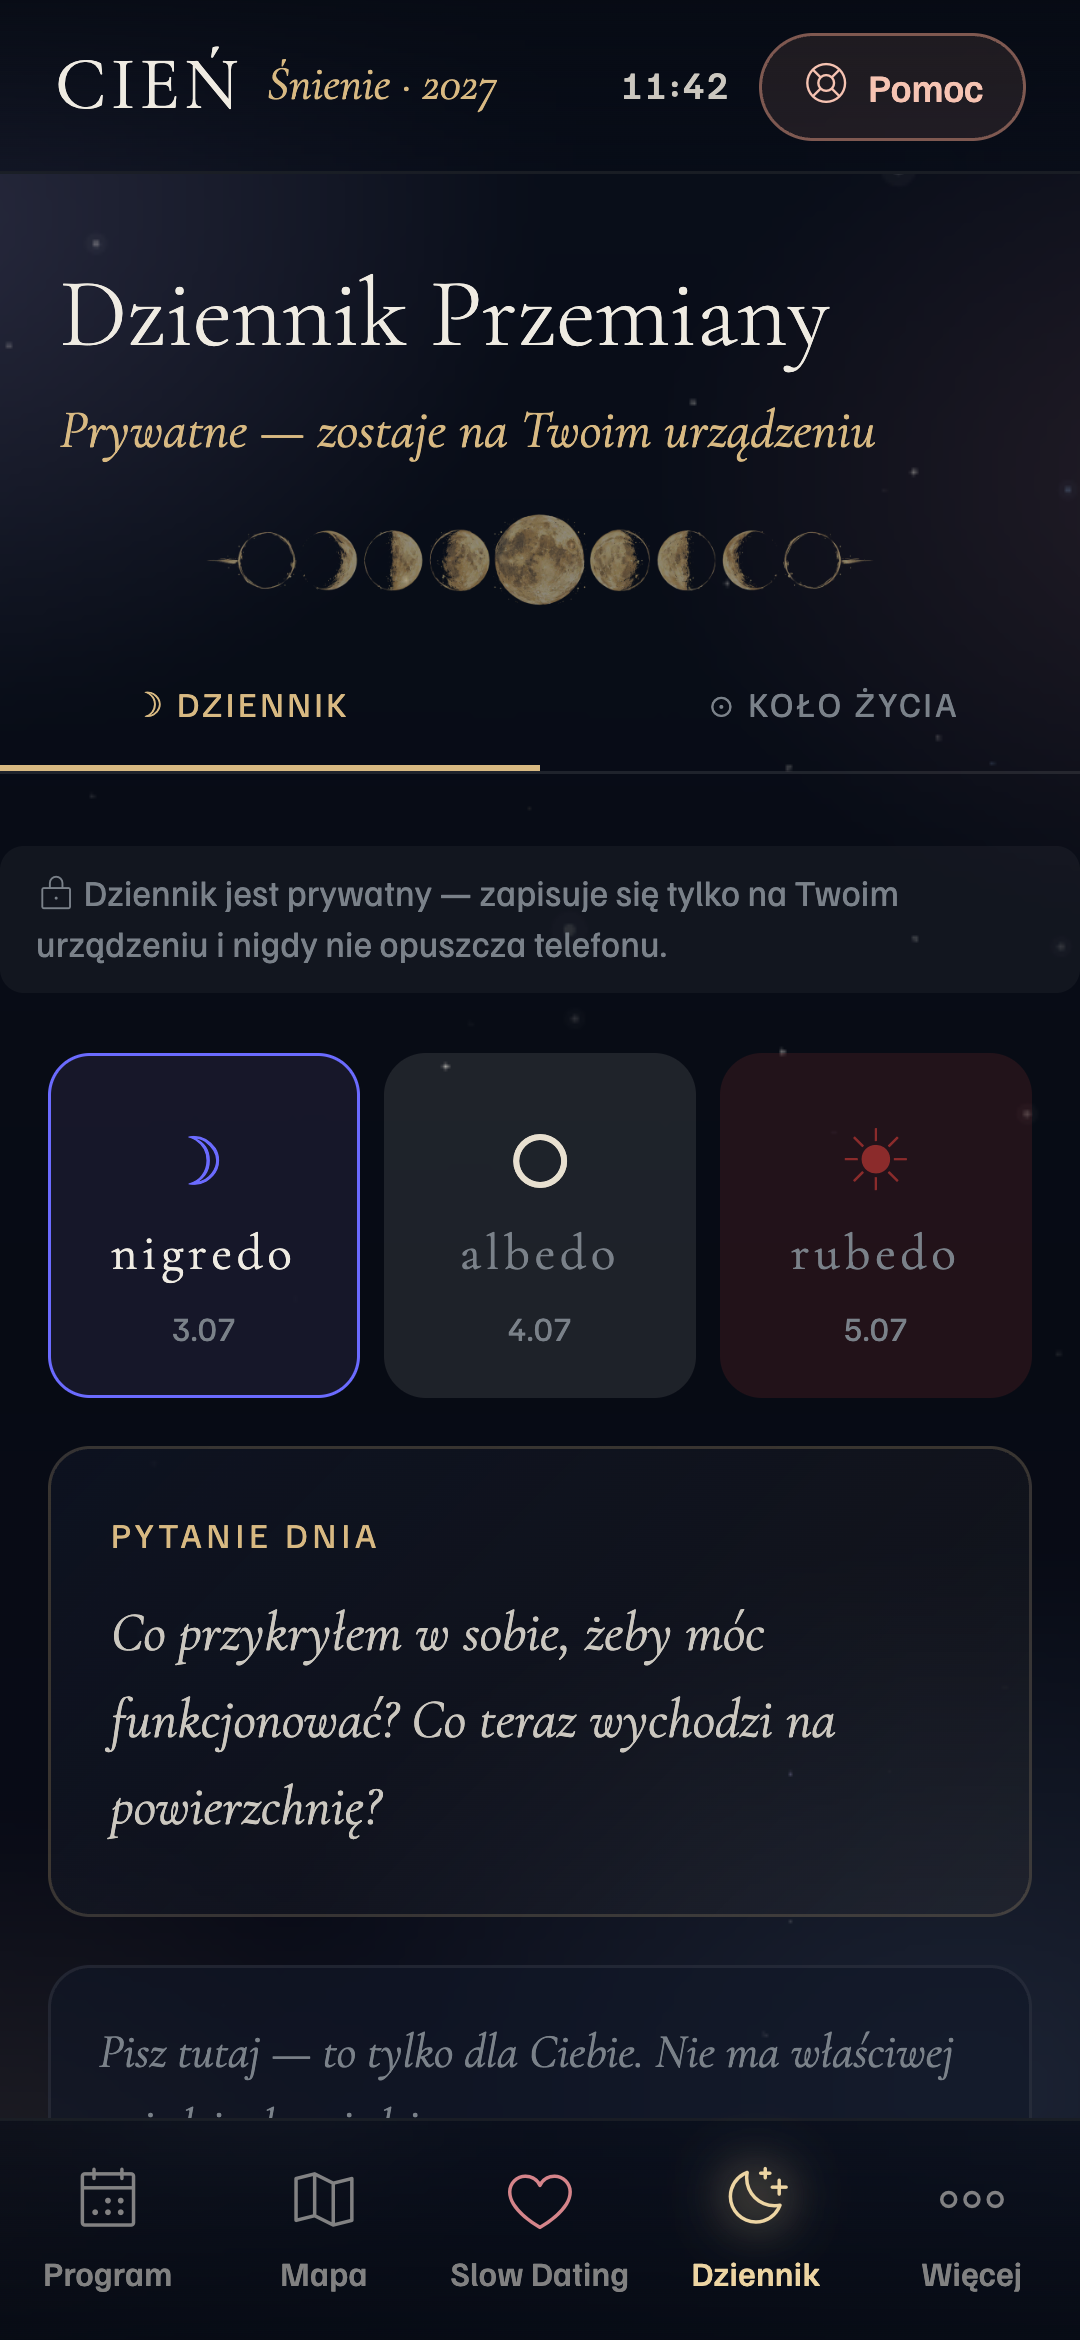
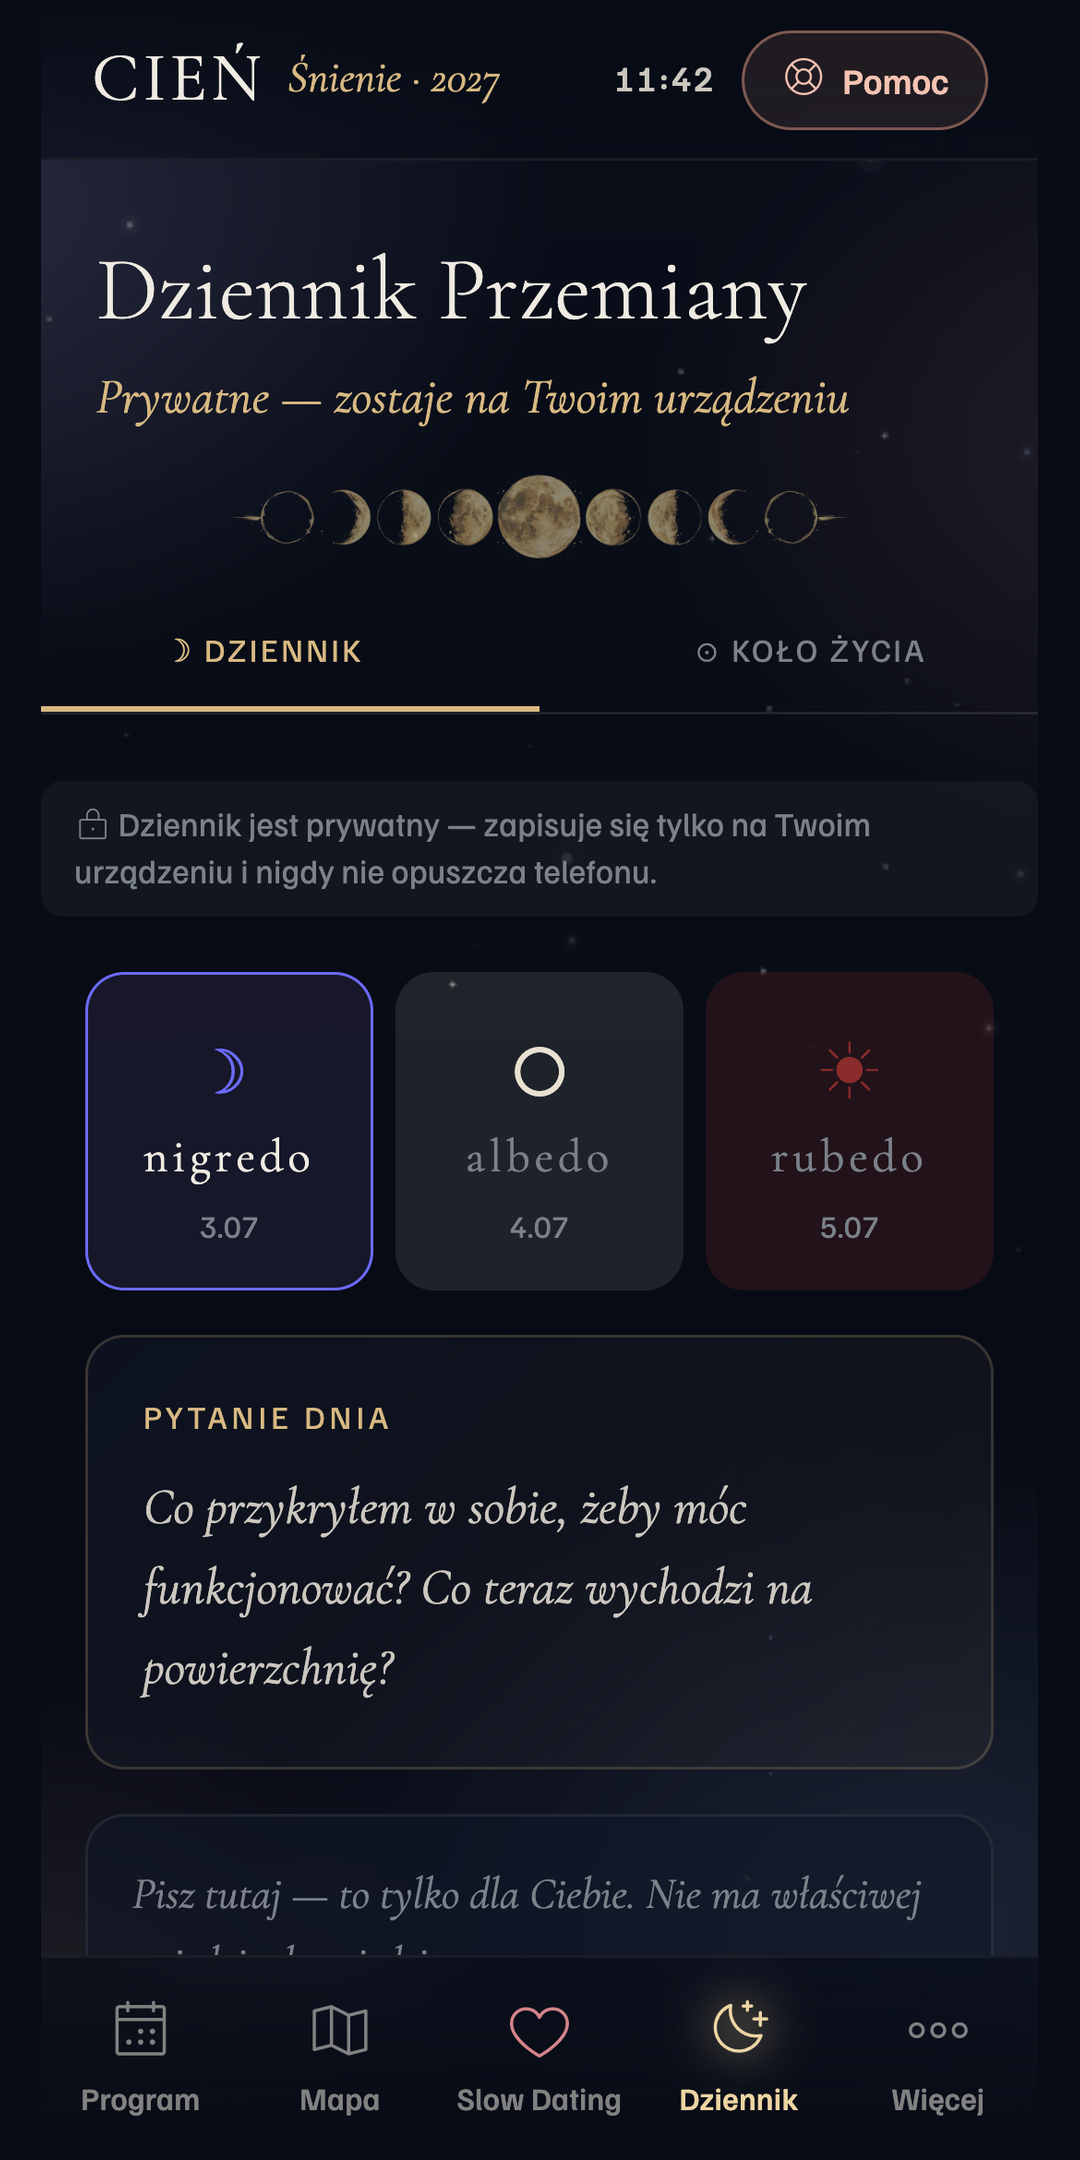
store: zrzuty Google Play 1080x2160 (limit 2:1), stan weryfikacji kont

diff --git a/store/zakladanie-kont.md b/store/zakladanie-kont.md
@@ -61,3 +61,11 @@ w dniu wysyłki i wpiszę je w formularzach.
   (3) weryfikacja numerów telefonów (po 1 i 2).
 - **Apple:** podstawowa umowa Apple Developer zaakceptowana. Numer D-U-N-S Sacrum: 369477420 (już istniał w D&B).
   Zapis organizacji i opłata 99 USD tylko w aplikacji Apple Developer (iPhone/Mac) — Piotr.
+
+### Aktualizacja 21.10.2026, popołudnie
+- Strona sacrum.life **zweryfikowana** w Play Console (Search Console, plik `google5db174e38a93c7f5.html` serwowany regułą nginx na VPS — nie usuwać).
+- Dokumenty tożsamości przedstawiciela przesłane, status „Google weryfikuje Twoją tożsamość” (kilka dni, mail na piotr.matejuk@gmail.com).
+- Tworzenie aplikacji zablokowane do weryfikacji: sprawdzanie nazwy pakietu zwraca 404, każda nazwa wygląda na „zajętą”. `com.cienfestiwal.app` nie istnieje publicznie w Play (404). Po weryfikacji spróbować ponownie; jeśli naprawdę zajęta — nowy `packageId` w `cien-android/twa-manifest.json`, przebudowa, nowy assetlinks.
+- Zrzuty Google Play przerobione na 1080×2160 (Play przyjmuje najwyżej 2:1; poprzednie 1080×2340 byłyby odrzucone).
+- Paczka: targetSdk 36, minSdk 24, versionCode 1. W `app/build.gradle` `versionName ""` — przy najbliższej przebudowie ustawić 1.0.0.
+- Apple: Piotr nie przeszedł skanu prawa jazdy w aplikacji Apple Developer (iPhone 16 Pro nie łapie ostrości z bliska). Rady: telefon 25–35 cm, ciemne matowe tło, dowód/paszport zamiast prawa jazdy, ewentualnie inne urządzenie zalogowane jego Apple ID.
